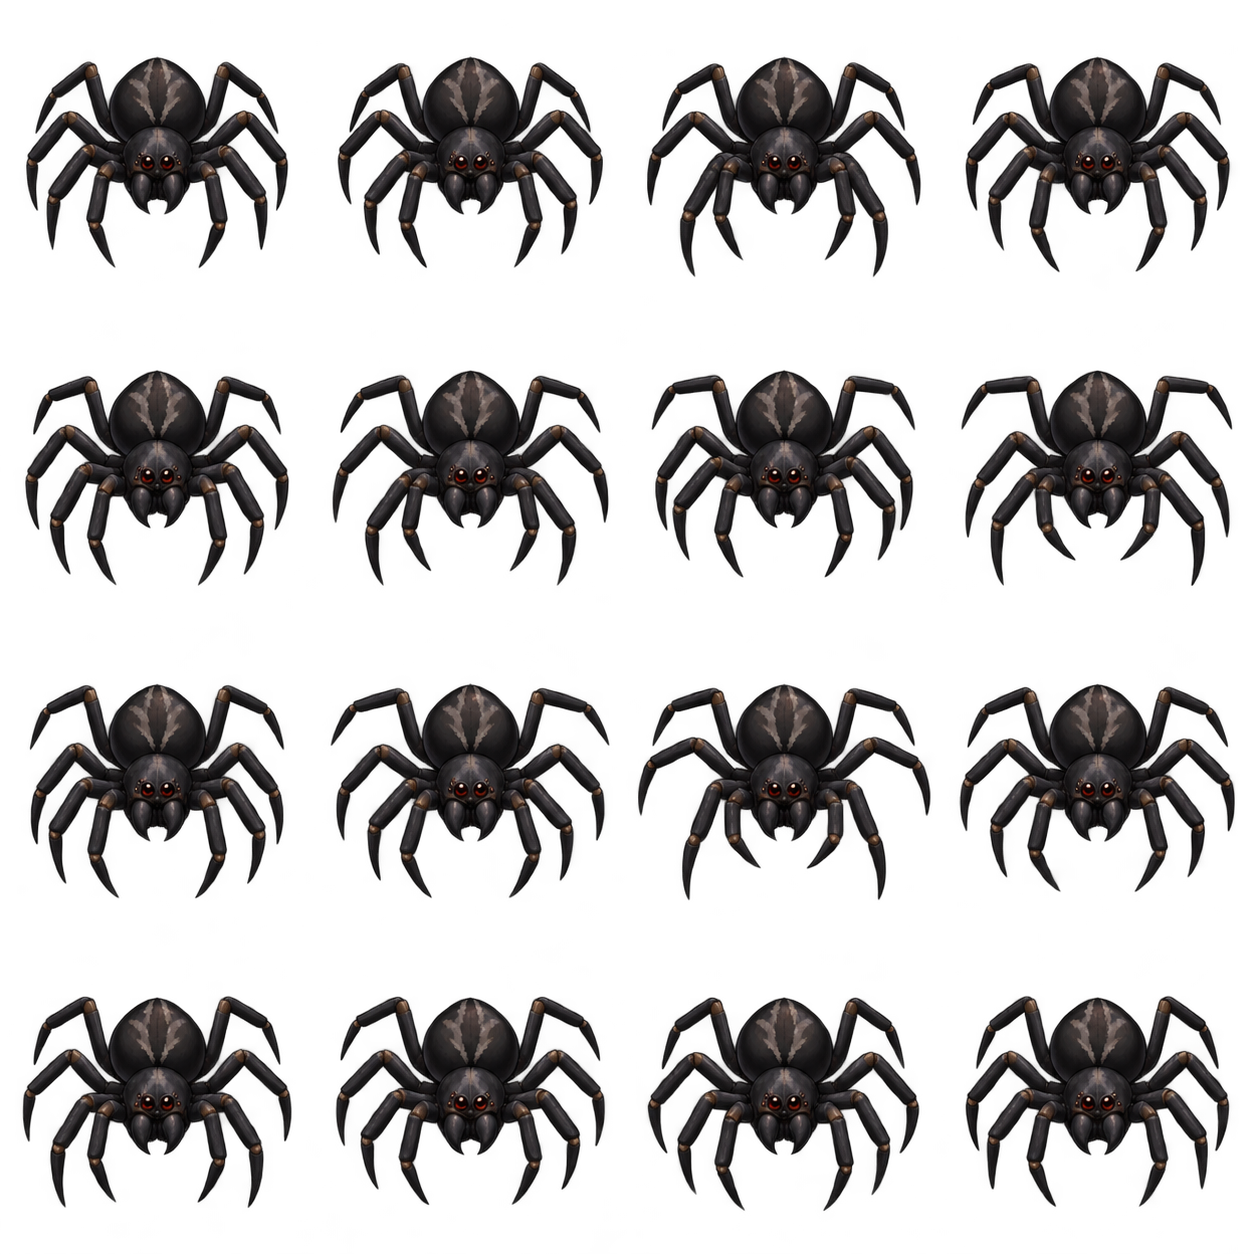
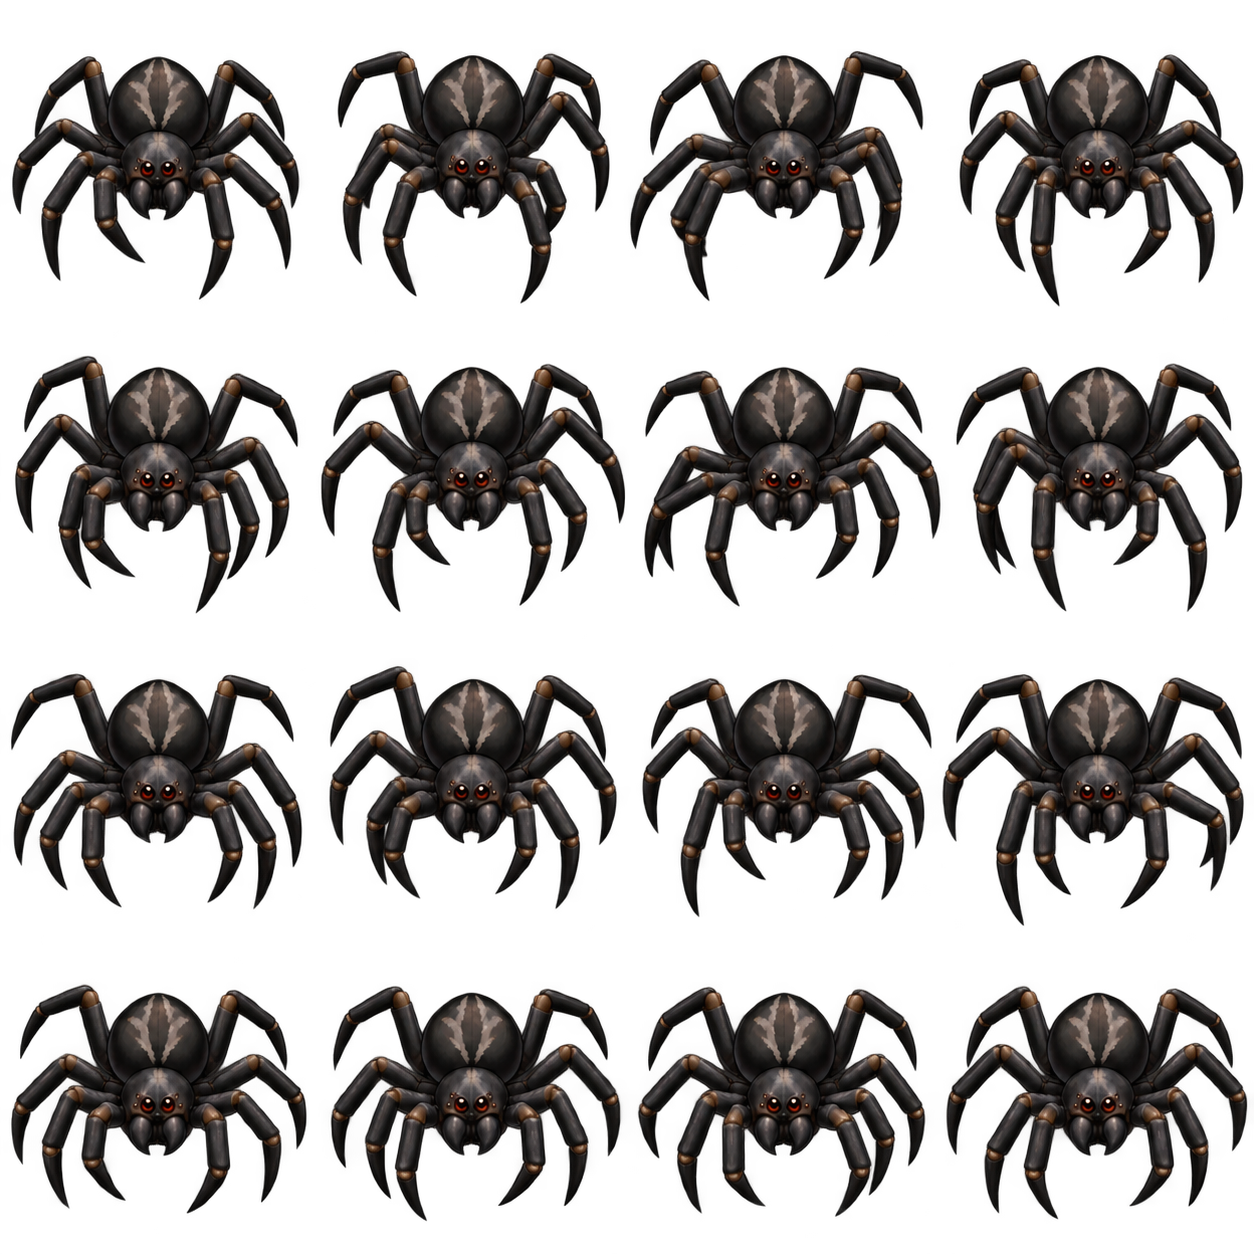
New image + swapping directions

diff --git a/src/spider.tsx b/src/spider.tsx
@@ -22,11 +22,16 @@ const SPIDER_DESPAWN_MARGIN_PX = 100
 const SPIDER_LANE_COUNT = 8
 // Chance a new spider walks bottom-to-top instead of top-to-bottom.
 const SPIDER_UPWARD_CHANCE = 0.5
+// Chance a new spider turns around once, at a random point while fully on screen (the band below,
+// as fractions of the room it has to move in). Safe for overlap: it keeps its lane to itself.
+const SPIDER_TURN_CHANCE = 0.3
+const SPIDER_TURN_AT_MIN = 0.15
+const SPIDER_TURN_AT_MAX = 0.85
 // Must match setUiRenderer's virtualWidth/virtualHeight in ui.tsx.
 const VIRTUAL_WIDTH = 1920
 const VIRTUAL_HEIGHT = 1080
 
-type Spider = { id: number; lane: number; y: number; speed: number; timeOffset: number; upward: boolean }
+type Spider = { id: number; lane: number; y: number; speed: number; timeOffset: number; upward: boolean; turnAtY: number | null }
 
 const spiders: Spider[] = []
 let nextSpiderId = 0
@@ -68,13 +73,22 @@ engine.addSystem((dt: number) => {
         speed: randomBetween(SPIDER_SPEED_MIN_PX, SPIDER_SPEED_MAX_PX),
         // Desyncs the walk cycles so the spiders don't all step in unison.
         timeOffset: Math.random() * (SPIDER_FRAME_COUNT / SPIDER_FPS),
-        upward
+        upward,
+        turnAtY:
+          Math.random() < SPIDER_TURN_CHANCE
+            ? randomBetween(SPIDER_TURN_AT_MIN, SPIDER_TURN_AT_MAX) * (screen.height - SPIDER_SIZE_PX)
+            : null
       })
     }
   }
 
   for (let i = spiders.length - 1; i >= 0; i--) {
     const spider = spiders[i]
+    // Reversing flips `upward`, which also mirrors the sprite (see getSpiderUvs).
+    if (spider.turnAtY !== null && (spider.upward ? spider.y <= spider.turnAtY : spider.y >= spider.turnAtY)) {
+      spider.upward = !spider.upward
+      spider.turnAtY = null
+    }
     if (spider.upward) {
       spider.y -= spider.speed * dt
       if (spider.y + SPIDER_SIZE_PX < -SPIDER_DESPAWN_MARGIN_PX) spiders.splice(i, 1)
